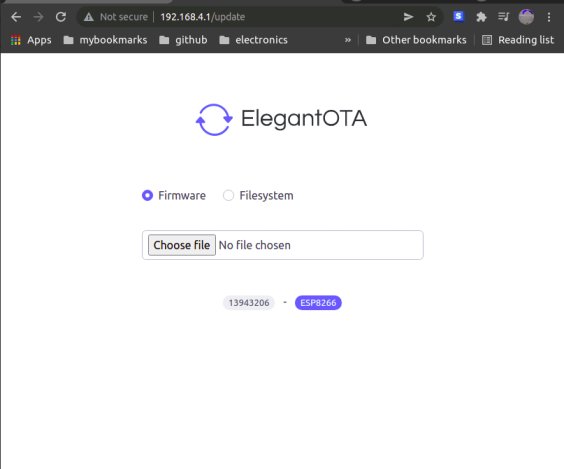
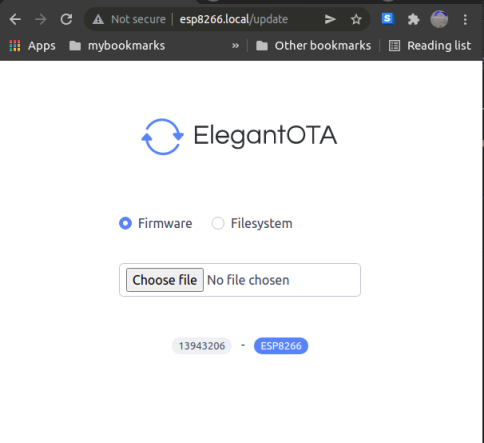
update readme

diff --git a/README.md b/README.md
@@ -133,6 +133,9 @@ If you want support for louder volume using the L9110S push-pull driver IC, set 
 To put the vario into WiFi AP server mode, switch on the vario and immediately press and hold the `PCC` button. When you hear a confirmation tone, release PCC. 
 
 You can now connect to the WiFi Access Point `ESP8266Vario` - no password needed. Now, access the url `http://192.168.4.1` in a browser.
+You can also access the url `http://esp8266.local` with any OS that has mDNS support (MacOS built-in support, Ubuntu - install Avahi, Windows - install Bonjour).
+
+You can configure an external WiFi Access Point SSID and password - then you do not have to switch between your home Wifi network and the vario access point to be able to configure the vario. In the field, if the configured external AP is not available, the vario will default to the stand-alone AP as above. In either case, if your OS has mDNS support, you can use the url `http://esp8266.local` for configuration.
 
 Compiled with Bluetooth support : 
 <br>
@@ -145,7 +148,7 @@ Compiled without Bluetooth support :
 ## OTA Firmware Update
 Use `Sketch->Export compiled binary` to export the compiled firmware binary file to the Arduino sketch folder.
 
-Put the vario into Wifi AP server mode, connect to the AP and access the url `http://192.168.4.1/update`. 
+Put the vario into Wifi configuration mode,  access the url `http://esp8266.local/update` or `http://192.168.4.1/update`.
 
 Upload the new firmware binary `.bin` file. Switch the vario off and on again. Select WiFi configuration mode again. If the firmware revision string has been updated in the new firmware binary, you can confirm the updated value in the home page url `http://192.168.4.1`.
 
